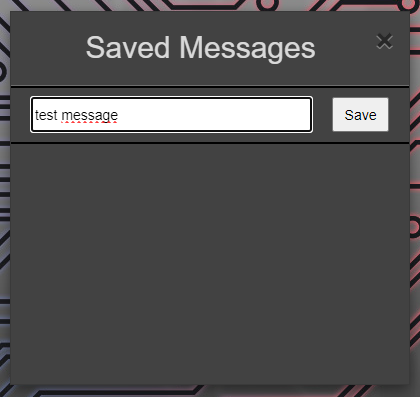
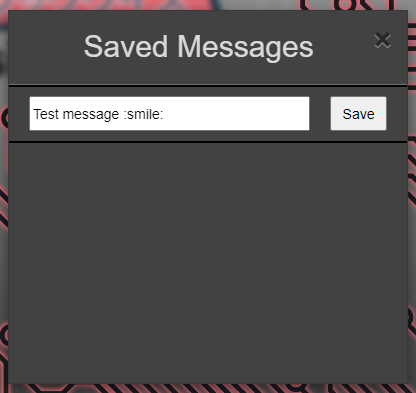
v0.3: Emojis are now display in window

diff --git a/AMQ/MessagesAutosender/AMQMessagesAutosender.user.js b/AMQ/MessagesAutosender/AMQMessagesAutosender.user.js
@@ -1,7 +1,7 @@
 // ==UserScript==
 // @name         AMQ Messages Autosender
 // @namespace    https://github.com/JabroAMQ/
-// @version      0.2
+// @version      0.3
 // @description  Allow the user to store some messages and autosend them when clicked
 // @author       Jabro
 // @match        https://animemusicquiz.com/*
@@ -32,9 +32,6 @@ AMQ_addScriptData({
 TODO list:
 
 - Prettify the window stuff
-
-- Add functions to convert ":free:" into the free emoji (also for AMQ custom emojis (marSurrender))
-    - Check nyamu's EmojiAnswer userscript: https://github.com/nyamu-amq/amq_scripts/blob/master/amqEmojiAnswer.user.js
 
 - Add a warning popup window in sendMessageToGameChat() function rather than using console.error
 
@@ -225,7 +222,7 @@ function setupSavedMessagesWindowButton() {
         .click(openSavedMessagesWindow)
         .popover({
 			placement: 'bottom',
-			content: 'Open Saved Messages Window',
+			content: 'Saved Messages',
 			trigger: 'hover'
 	    });
 
@@ -265,6 +262,10 @@ function sendMessageToGameChat(content) {
 
 function saveMessage() {
     let textFieldValue = document.getElementById('newMessageTextField').value;
+
+    // Find and convert emojis
+    textFieldValue = translateShortcodeToUnicode(textFieldValue).text;
+
     addMessageContainerToPanel(textFieldValue);
 
     // Log the changes for future sessions
